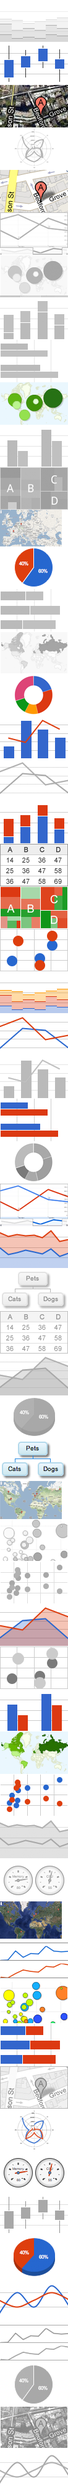
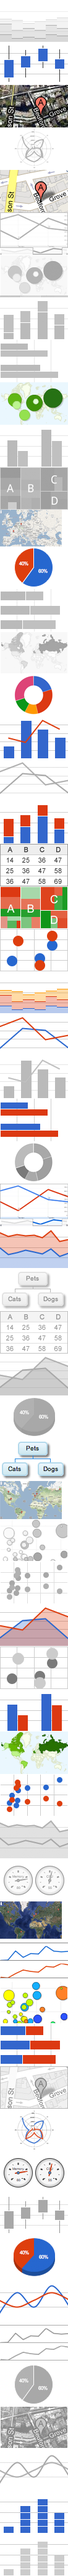
Refs #19175; Add default tooltips only on charts where it is allowed; Updated small thumbnails for new available charts

diff --git a/eea/googlecharts/views/js/datatable.js b/eea/googlecharts/views/js/datatable.js
@@ -1,4 +1,5 @@
 var allowedTypesForCharts = ['string', 'number', 'boolean', 'date', 'datetime', 'timeofday'];
+var allowedChartsForTooltips = ['BarChart', 'ColumnChart', 'LineChart', 'ComboChart', 'AreaChart', 'SteppedAreaChart', 'ScatterChart'];
 
 function splitColumn(columnName, defaultvalue, defaulttype, unpivotSettings){
     var unpivotBase = "";
@@ -496,9 +497,12 @@ function prepareForChart(options){
         sortAsc : true,
         preparedColumns : '',
         enableEmptyRows : false,
-        isEditor : false
+        chartType : 'barchart'
     };
     jQuery.extend(settings, options);
+    if (jQuery.inArray(settings.chartType, allowedChartsForTooltips) === -1){
+        settings.hideTooltips = true;
+    };
 
     var tmpItemsToDisplay = settings.originalDataTable.items;
     var itemsToDisplay = [];
@@ -520,6 +524,7 @@ function prepareForChart(options){
     }
     var dataForChart = new google.visualization.DataTable();
     var columnsForChart = [];
+    var isFirstColumn = true;
     jQuery.each(settings.columns, function(column_index, column){
         var hasTooltip = false;
         var colName = settings.originalDataTable.available_columns[column];
@@ -562,7 +567,7 @@ function prepareForChart(options){
             column_options.role = role;
         }
         var shouldAddColumn = true;
-        if ((settings.isEditor) && (isTooltip)){
+        if ((settings.hideTooltips) && (isTooltip)){
             shouldAddColumn = false;
         }
         if (shouldAddColumn){
@@ -576,21 +581,21 @@ function prepareForChart(options){
                                                     id:"customtooltip_for_" + column,
                                                     role:"tooltip",
                                                     p: {'html': true}};
-                if (!settings.isEditor){
+                if (!settings.hideTooltips){
                     dataForChart.addColumn(customtooltip_column_options);
                     columnsForChart.push({column:customtooltip_column_options.id, type:'customtooltip', template:jQuery('<textarea/>').html(customtooltip.tooltip).text()});
                 }
                 hasTooltip = true;
             }
         }
-        if ((!hasTooltip) && (!isTooltip)){
+        if ((!hasTooltip) && (!isTooltip) && (!isFirstColumn)){
             if ((role === 'data') || (role === '')){
                 var defaulttooltip_column_options = {type:"string",
                                                     label:"defaulttooltip_for_" + colName,
                                                     id:"defaulttooltip_for_" + column,
                                                     role:"tooltip",
                                                     p: {'html': true}};
-                if (!settings.isEditor){
+                if (!settings.hideTooltips){
                     dataForChart.addColumn(defaulttooltip_column_options);
                     columnsForChart.push({column:defaulttooltip_column_options.id,
                                         type:'customtooltip',
@@ -599,6 +604,7 @@ function prepareForChart(options){
                 }
             }
         }
+        isFirstColumn = false;
     });
     jQuery(itemsToDisplay).each(function(row_index, row){
         var newRow = [];

diff --git a/eea/googlecharts/views/js/edit.js b/eea/googlecharts/views/js/edit.js
@@ -712,7 +712,7 @@ function saveThumb(value, useName){
         sortAsc : chart_sortAsc,
         enableEmptyRows: chart_options.enableEmptyRows,
         preparedColumns: chart_columns.prepared,
-        isEditor : true
+        chartType : 'editor'
     };
     var tableForChart = prepareForChart(options);
 
@@ -1480,7 +1480,7 @@ function redrawEditorChart() {
     if (!isPossibleTreemap){
         options.limit = 100;
     }
-    options.isEditor = true;
+    options.chartType = 'editor';
 
     var tableForChart = prepareForChart(options);
 
@@ -2752,7 +2752,7 @@ function openEditor(elementId) {
     if (!isPossibleTreemap){
         options.limit = 100;
     }
-    options.isEditor = true;
+    options.chartType = 'editor';
     var tableForChart = prepareForChart(options);
 
     // workaround for charteditor issue #17629
@@ -3862,7 +3862,7 @@ function columnsMatrixChart(chartType){
             limit : dotsForMatrixChart,
             sortBy : sortBy,
             sortAsc : sortAsc,
-            isEditor : true
+            chartType : 'editor'
         };
 
         data = prepareForChart(options);
@@ -3876,7 +3876,7 @@ function columnsMatrixChart(chartType){
             limit : dotsForMatrixChart,
             sortBy : sortBy,
             sortAsc : sortAsc,
-            isEditor : true
+            chartType : 'editor'
         };
         data = prepareForChart(options);
     }
@@ -4040,7 +4040,7 @@ function columnsMatrixChart(chartType){
                             columns : columnNamesForMatrix,
                             sortBy : sortBy,
                             sortAsc : sortAsc,
-                            isEditor : true
+                            chartType : 'editor'
                         };
 
                         chart_data = prepareForChart(options);
@@ -4055,7 +4055,7 @@ function columnsMatrixChart(chartType){
                             columns : allColumnNamesForMatrix,
                             sortBy : sortBy,
                             sortAsc : sortAsc,
-                            isEditor : true
+                            chartType : 'editor'
                         };
                         chart_data = prepareForChart(options);
                     }

diff --git a/eea/googlecharts/views/js/chart.js b/eea/googlecharts/views/js/chart.js
@@ -788,7 +788,8 @@ function drawGoogleDashboard(options){
                 sortBy : chart_sortBy,
                 sortAsc : chart_sortAsc,
                 preparedColumns : chartConfig[2].prepared,
-                enableEmptyRows : chartConfig[7].enableEmptyRows
+                enableEmptyRows : chartConfig[7].enableEmptyRows,
+                chartType : chartConfig[1].chartType
             };
 
             var tableForChart = prepareForChart(options);
@@ -864,7 +865,8 @@ function drawGoogleDashboard(options){
 
             options = {
                 originalDataTable : transformedTable,
-                columns : normalColumns
+                columns : normalColumns,
+                chartType : 'Table'
             };
 
             var tableForChart = prepareForChart(options);

diff --git a/eea/googlecharts/views/css/view.css b/eea/googlecharts/views/css/view.css
@@ -23,11 +23,13 @@
     background: url("../../++resource++mini2.png") no-repeat scroll 0 -84px transparent;
 }
 
-.googlechart_class_AreaChart span{
+.googlechart_class_AreaChart span,
+.googlechart_class_SteppedAreaChart span{
     background: url("../../++resource++mini2.png") no-repeat scroll 0 -105px transparent;
 }
 
-.googlechart_class_ColumnChart span{
+.googlechart_class_ColumnChart span,
+.googlechart_class_Histogram span{
     background: url("../../++resource++mini2.png") no-repeat scroll 0 0px transparent;
 }
 

diff --git a/eea/googlecharts/views/js/view.js b/eea/googlecharts/views/js/view.js
@@ -265,8 +265,10 @@ function drawChart(value, other_options){
         sortBy : chart_sortBy,
         sortAsc : chart_sortAsc,
         preparedColumns : chart_columns.prepared,
-        enableEmptyRows : chart_options.enableEmptyRows
+        enableEmptyRows : chart_options.enableEmptyRows,
+        chartType : chart_json.chartType
     };
+
     var tableForChart = prepareForChart(options);
 
     var googlechart_params = {

diff --git a/eea/googlecharts/views/js/embed_chart.js b/eea/googlecharts/views/js/embed_chart.js
@@ -158,7 +158,8 @@ function drawChart(value, other_options){
         sortBy : embedchart_sortBy,
         sortAsc : embedchart_sortAsc,
         preparedColumns : embedchart_columns.prepared,
-        enableEmptyRows : embedchart_options.enableEmptyRows
+        enableEmptyRows : embedchart_options.enableEmptyRows,
+        chartType : embedchart_json.chartType
     };
 
     var tableForChart = prepareForChart(options);

diff --git a/eea/googlecharts/views/css/edit.css b/eea/googlecharts/views/css/edit.css
@@ -1396,6 +1396,12 @@ div[title='Format'].slick-header-menuitem {
     height: 68px;
 }
 
+.googlechart-preview-histogram {
+    background: no-repeat url(../../++resource++thumbs17.png) 0 -3996px;
+    width: 110px;
+    height: 68px;
+}
+
 li.googlechart > fieldset > div > a > span {
     display:block;
 }
